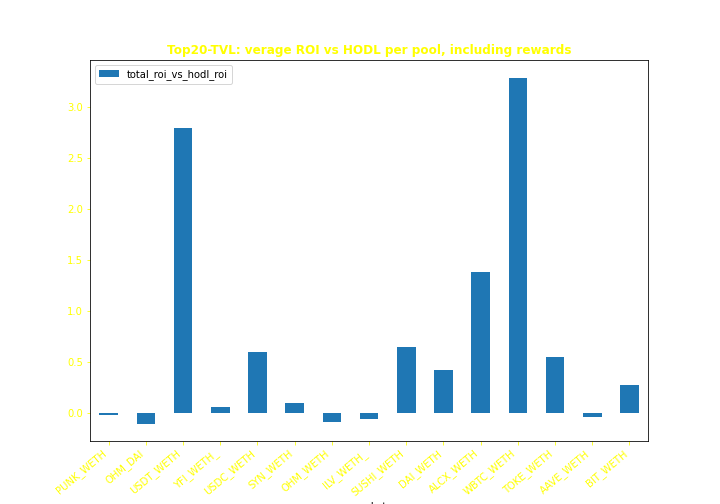
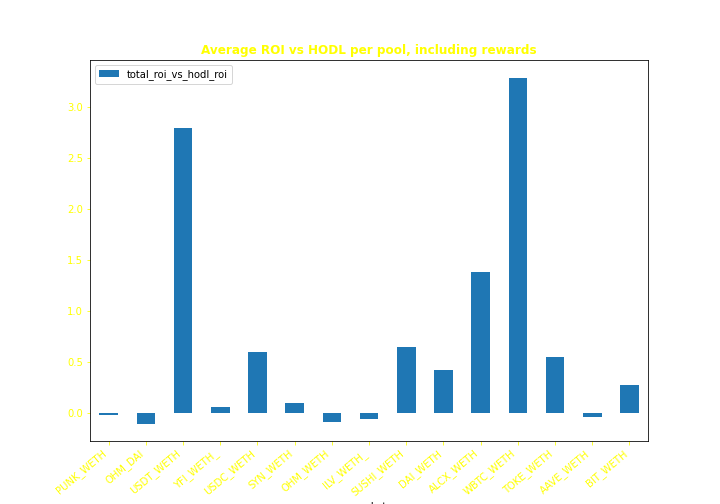
Add plots

Changed region(s): [[0.2139, 0.0893, 0.7944, 0.119]]

diff --git a/sushiswap/protocol_analyzer.py b/sushiswap/protocol_analyzer.py
@@ -30,15 +30,18 @@ pairs["0xaf988aff99d3d0cb870812c325c588d8d8cb7de8"] = "KP3R_WETH"
 pairs["0xb5de0c3753b6e1b4dba616db82767f17513e6d4e"] = "SPELL_WETH"
 pairs["0xdab6d56915d36060c8d6cf29a7a84910da614603"] = "METIS_WETH"
 pairs["0xf169cea51eb51774cf107c88309717dda20be167"] = "CREAM_WETH"
-
+pairs["0x05767d9ef41dc40689678ffca0608878fb3de906"] = "CVX_WETH"
+pairs["0xa1d7b2d891e3a1f9ef4bbc5be20630c2feb1c470"] = "SNX_WETH"
+pairs["0xba13afecda9beb75de5c56bbaf696b880a5a50dd"] = "MKR_WETH"
+pairs["0xdafd66636e2561b0284edde37e42d192f2844d40"] = "UNI_WETH"
 
 # Load position data
 import pandas as pd
 
-DATASET_NAME = "Top20-TVL"
+DATASET_NAME = "top20-volume"
 
-FOLDER = "top20-tvl-stats/"
-FILE_NAME = FOLDER + "top20-tvl-combined.csv"
+FOLDER = "top20-volume-stats/"
+FILE_NAME = FOLDER + "top20-volume-combined.csv"
 PLOTS = FOLDER + "plots/"
 
 df = pd.read_csv(FILE_NAME, parse_dates=["position_end_date", "position_start_date"])
@@ -101,7 +104,7 @@ pool_vs_hodl = df[['market', 'total_roi_vs_hodl_roi']]
 pool_vs_hodl_mean = pool_vs_hodl.groupby(['market']).mean()
 ax = pool_vs_hodl_mean.plot.bar(figsize=(10,7), rot=90)
 
-ax.set_title(DATASET_NAME + ': verage ROI vs HODL per pool, including rewards', fontweight='bold', color= 'yellow');
+ax.set_title('Average ROI vs HODL per pool, including rewards', fontweight='bold', color= 'yellow');
 ax.tick_params(colors='yellow', which='both')
 
 pool_vs_hodl_labels = [pairs[pair_address.get_text()] for pair_address in ax.get_xticklabels()]

diff --git a/sushiswap/data_analyzer.py b/sushiswap/data_analyzer.py
@@ -2,10 +2,10 @@
 # Load position data
 import pandas as pd
 
-DATASET_NAME = "Top20-TVL"
+DATASET_NAME = "Top-Defi"
 
-FOLDER = "top20-tvl-stats/"
-FILE_NAME = FOLDER + "top20-tvl-combined.csv"
+FOLDER = "defi-pools-stats/"
+FILE_NAME = FOLDER + "defi-combined.csv"
 PLOTS = FOLDER + "plots/"
 
 df = pd.read_csv(FILE_NAME, parse_dates=["position_end_date", "position_start_date"])
